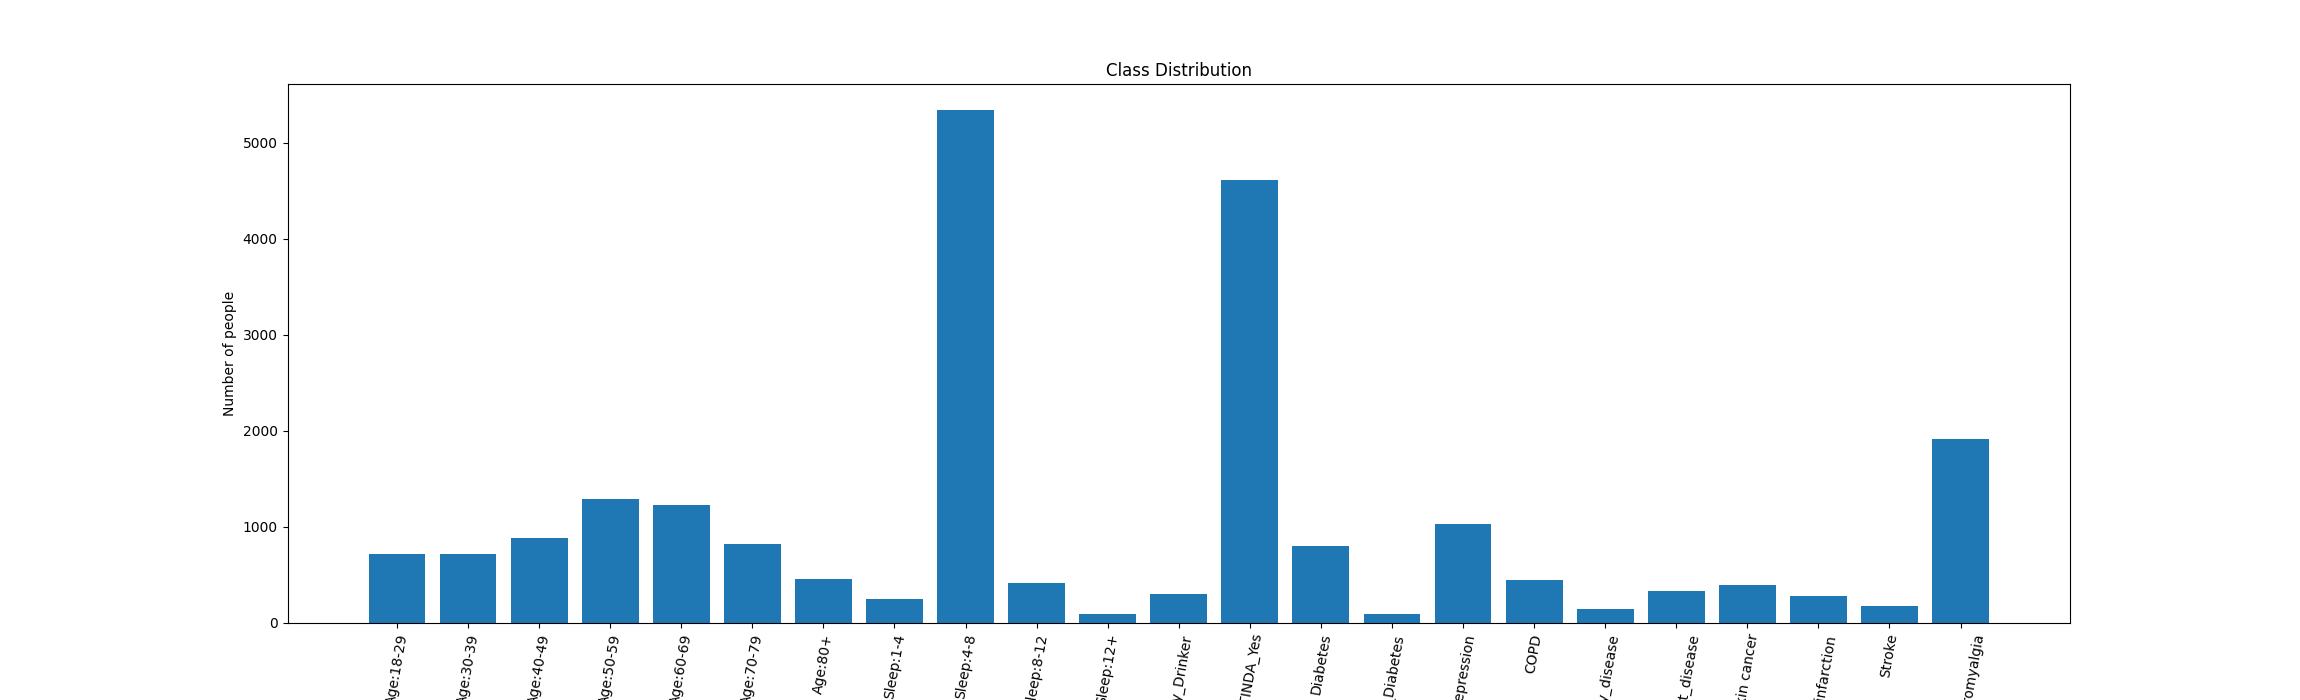
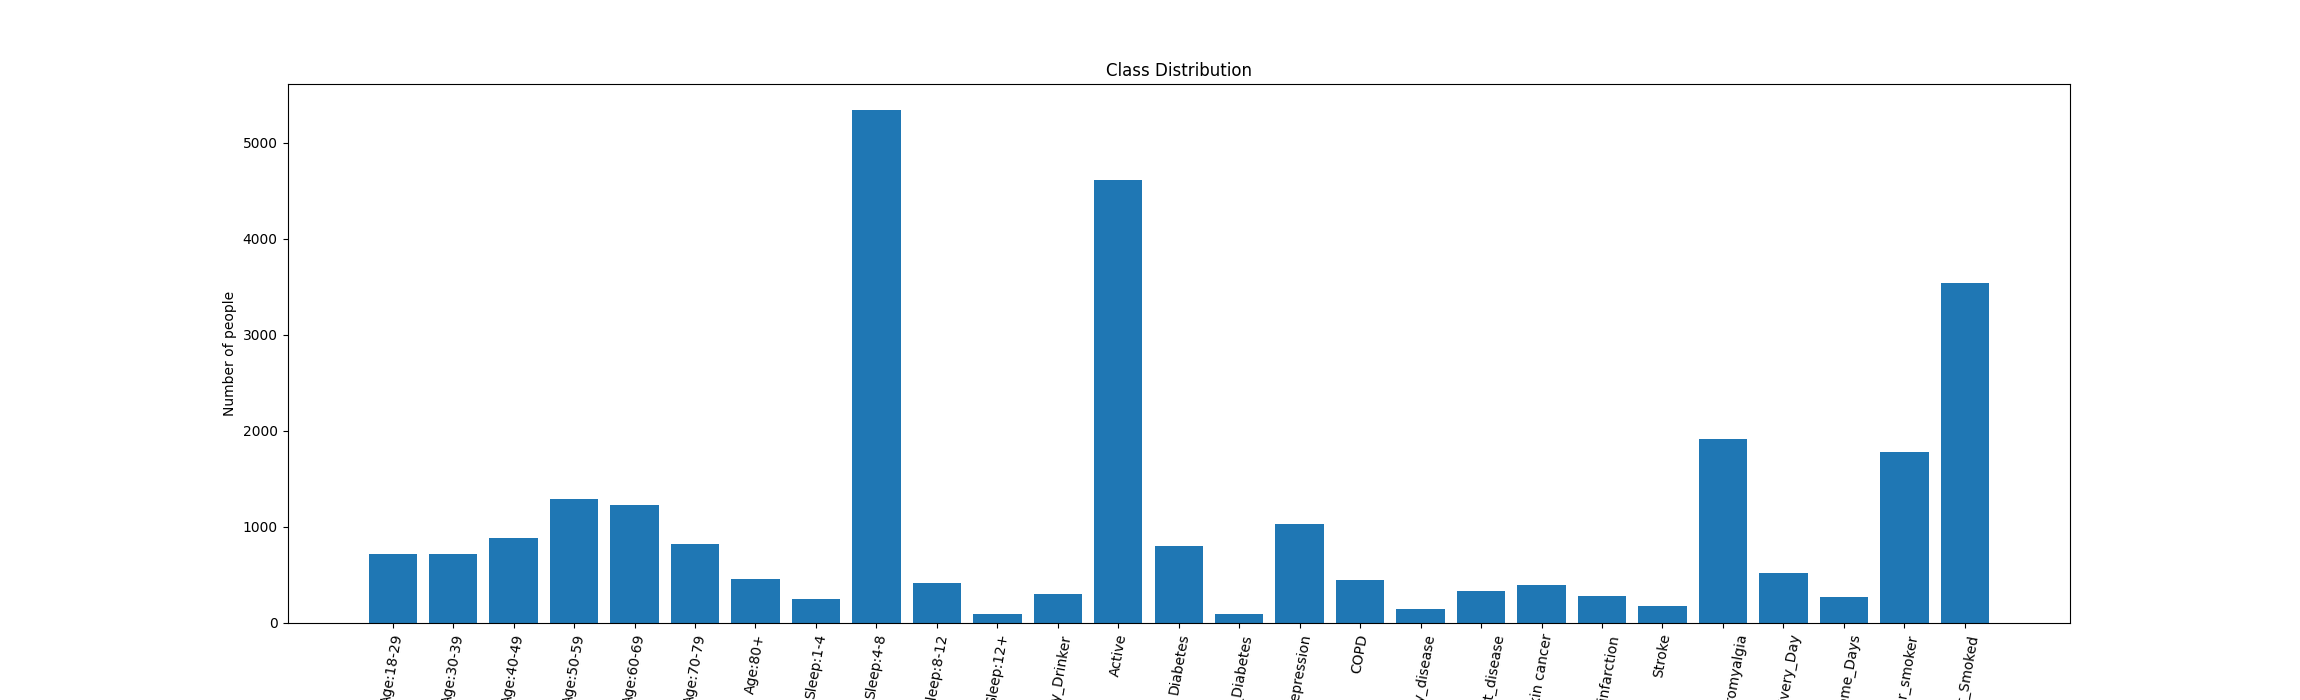
adding smoking data to heatmap/barchart

Changed region(s): [[0.1543, 0.15, 0.8643, 1.0]]

diff --git a/code/Risk_Assessment/pre_proccessing.py b/code/Risk_Assessment/pre_proccessing.py
@@ -74,7 +74,7 @@ df_filtered = df[(df['_TOTINDA'] != 'Unknown') &
                   ]
                   
 
-df_filtered = pd.get_dummies(df_filtered, columns=['_TOTINDA', 'DIABETE3', 'ADDEPEV2', '_AGEG5YR', '_SMOKER3', '_RFDRMN4', '_RFDRWM4','CHCCOPD', 'CHCKIDNY', 'CVDCRHD4', 'CHCSCNCR' , 'CVDINFR4', 'CVDSTRK3' , 'HAVARTH3', 'SLEPTIM1' ])
+df_filtered = pd.get_dummies(df_filtered, columns=['_TOTINDA', 'DIABETE3', 'ADDEPEV2', '_AGEG5YR', '_SMOKER3', '_RFDRMN4', '_RFDRWM4','CHCCOPD', 'CHCKIDNY', 'CVDCRHD4', 'CHCSCNCR' , 'CVDINFR4', 'CVDSTRK3' , 'HAVARTH3', 'SLEPTIM1'])
 
 
 df_filtered['Heavy_Drinker'] = df_filtered['_RFDRMN4_Heavy_Drinker'] | df_filtered['_RFDRWM4_Heavy_Drinker']
@@ -107,7 +107,15 @@ df_filtered = df_filtered.loc[:,[
                 'CHCSCNCR_Yes',
                 'CVDINFR4_Yes',
                 'CVDSTRK3_Yes',
-                'HAVARTH3_Yes'
+                'HAVARTH3_Yes',
+                
+                '_SMOKER3_smokes_every_day',
+                '_SMOKER3_smokes_some_days',
+                '_SMOKER3_Former_smoker' ,
+                 '_SMOKER3_Never_smoked'
+
+
+
 ]] 
 
 
@@ -133,7 +141,13 @@ df_filtered = df_filtered.rename(columns={ '_AGEG5YR_18-29': 'Age:18-29',
                                             'CVDINFR4_Yes':'Myocardial_infarction',
                                             'CVDSTRK3_Yes':'Stroke',
                                             'HAVARTH3_Yes':'Arthritis,Gout,Lupus,Fibromyalgia',
-                                            'CHCSCNCR_Yes': 'Skin cancer'})
+                                            'CHCSCNCR_Yes': 'Skin cancer',
+                                            '_SMOKER3_smokes_every_day' : 'Smokes_Every_Day',
+                                            '_SMOKER3_smokes_some_days' : 'Smokes_Some_Days',
+                                            '_SMOKER3_Former_smoker' : 'Former_smoker',
+                                            '_SMOKER3_Never_smoked': 'Never_Smoked',
+                                            '_TOTINDA_Yes' : 'Active',
+                                            })
 
 
 output_file_path = 'filtered_data.csv'
